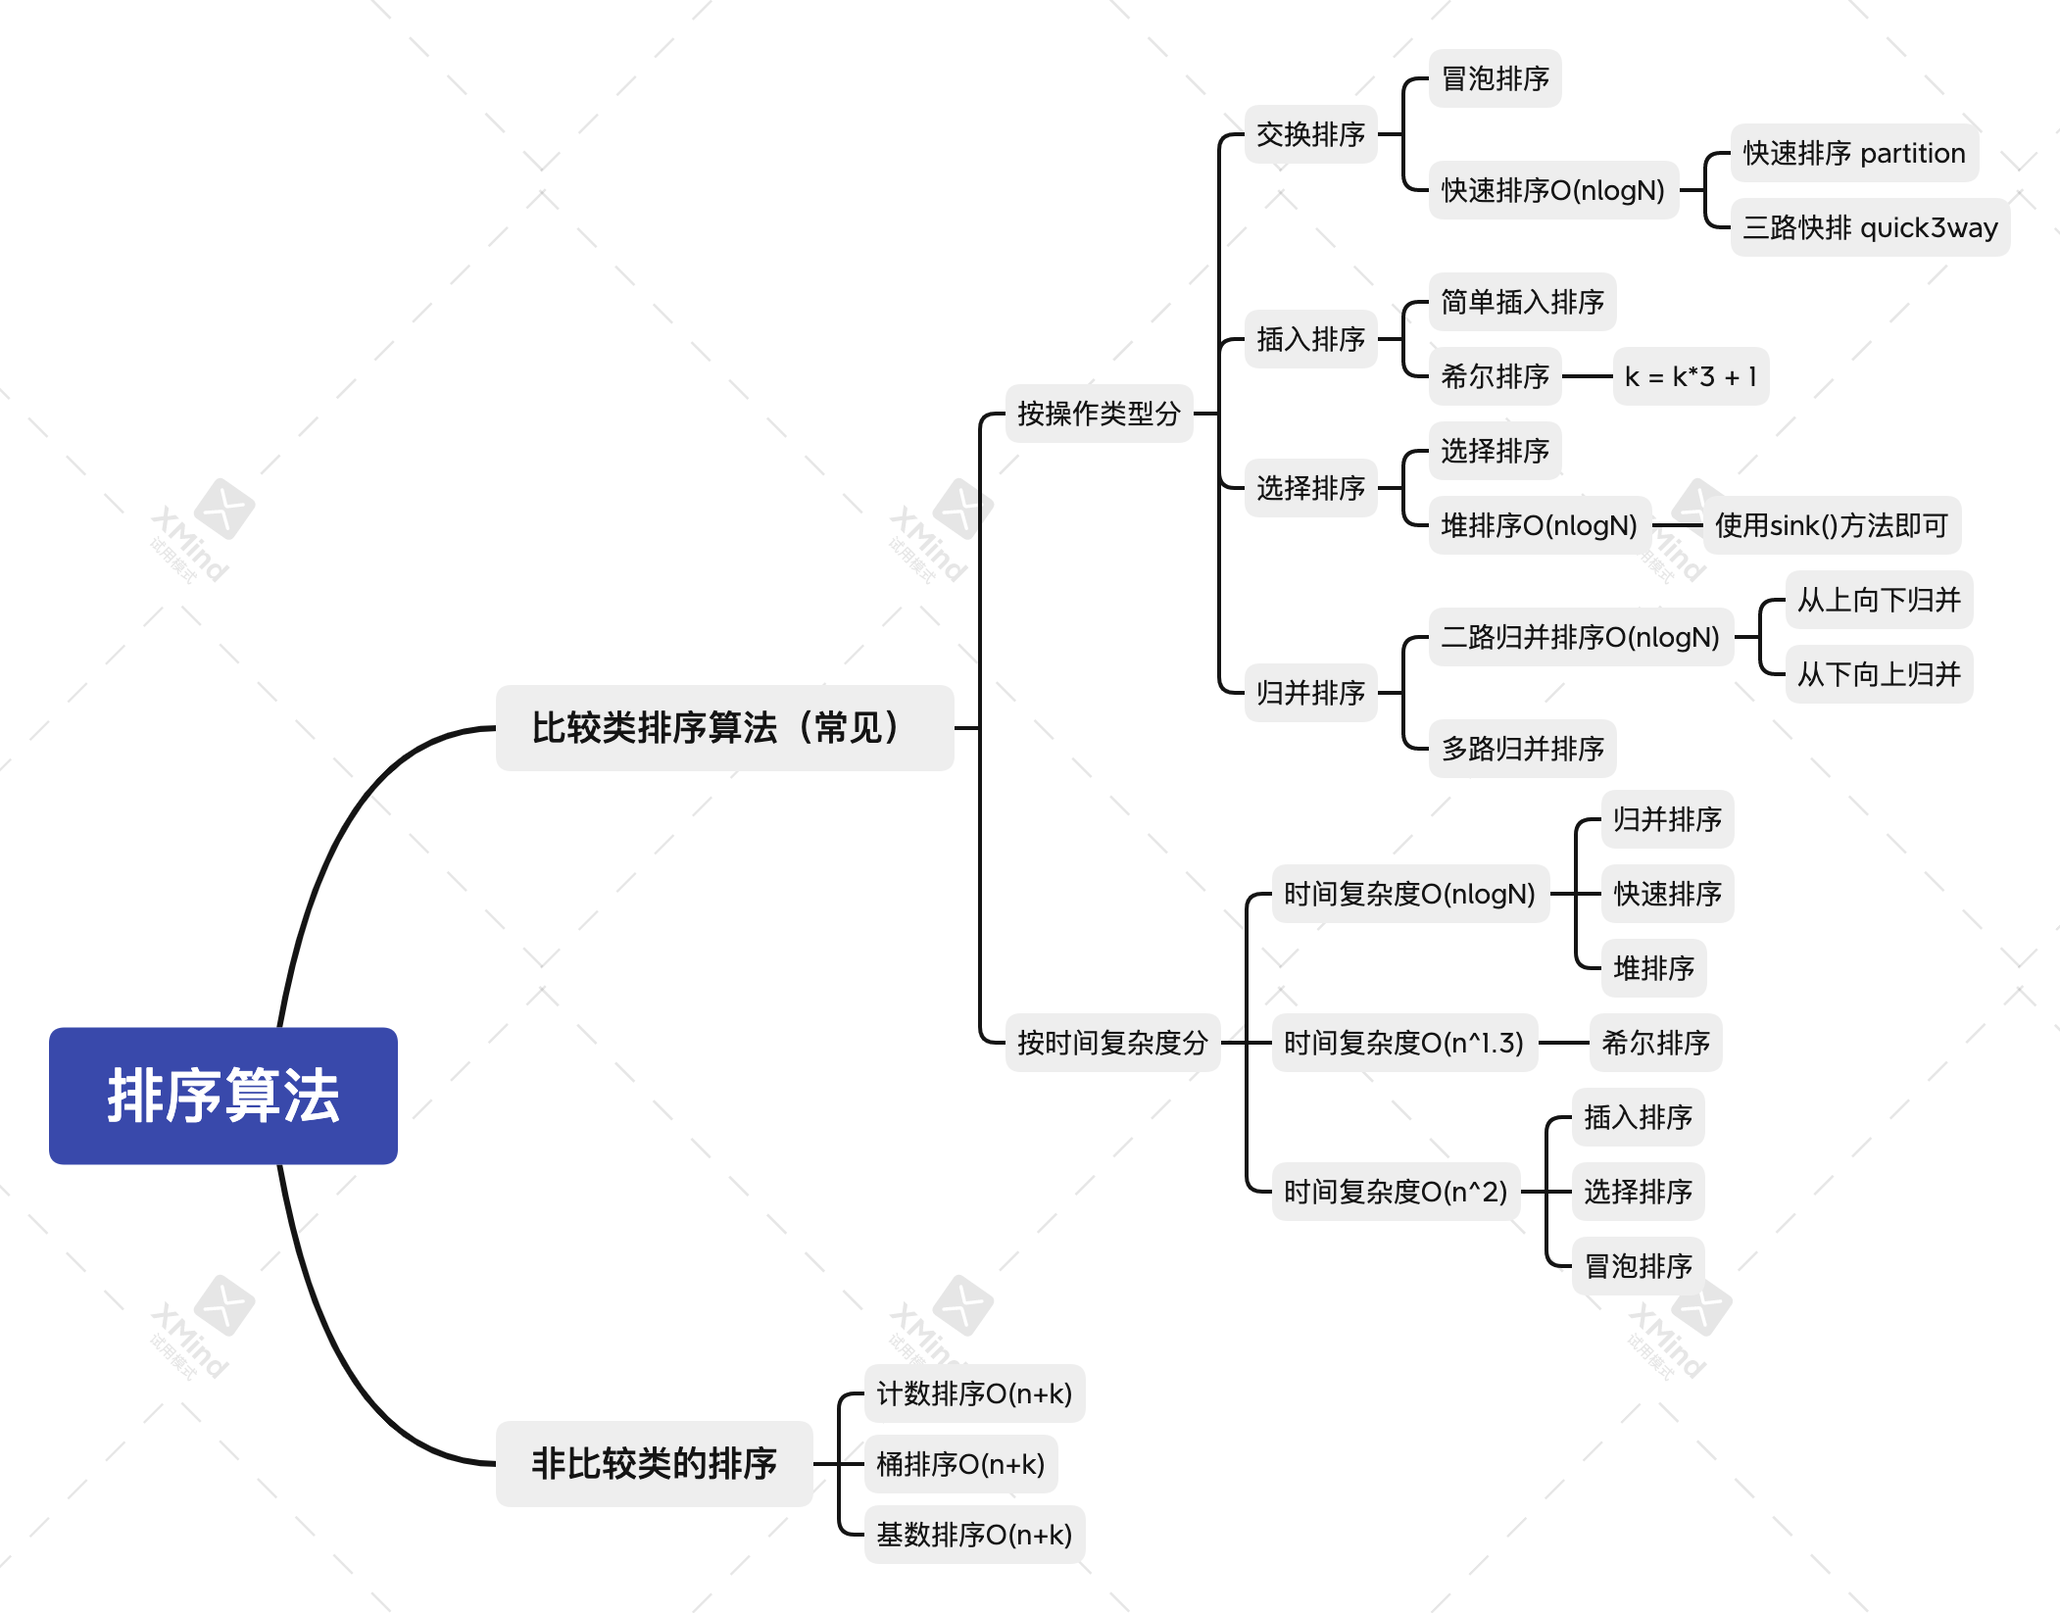
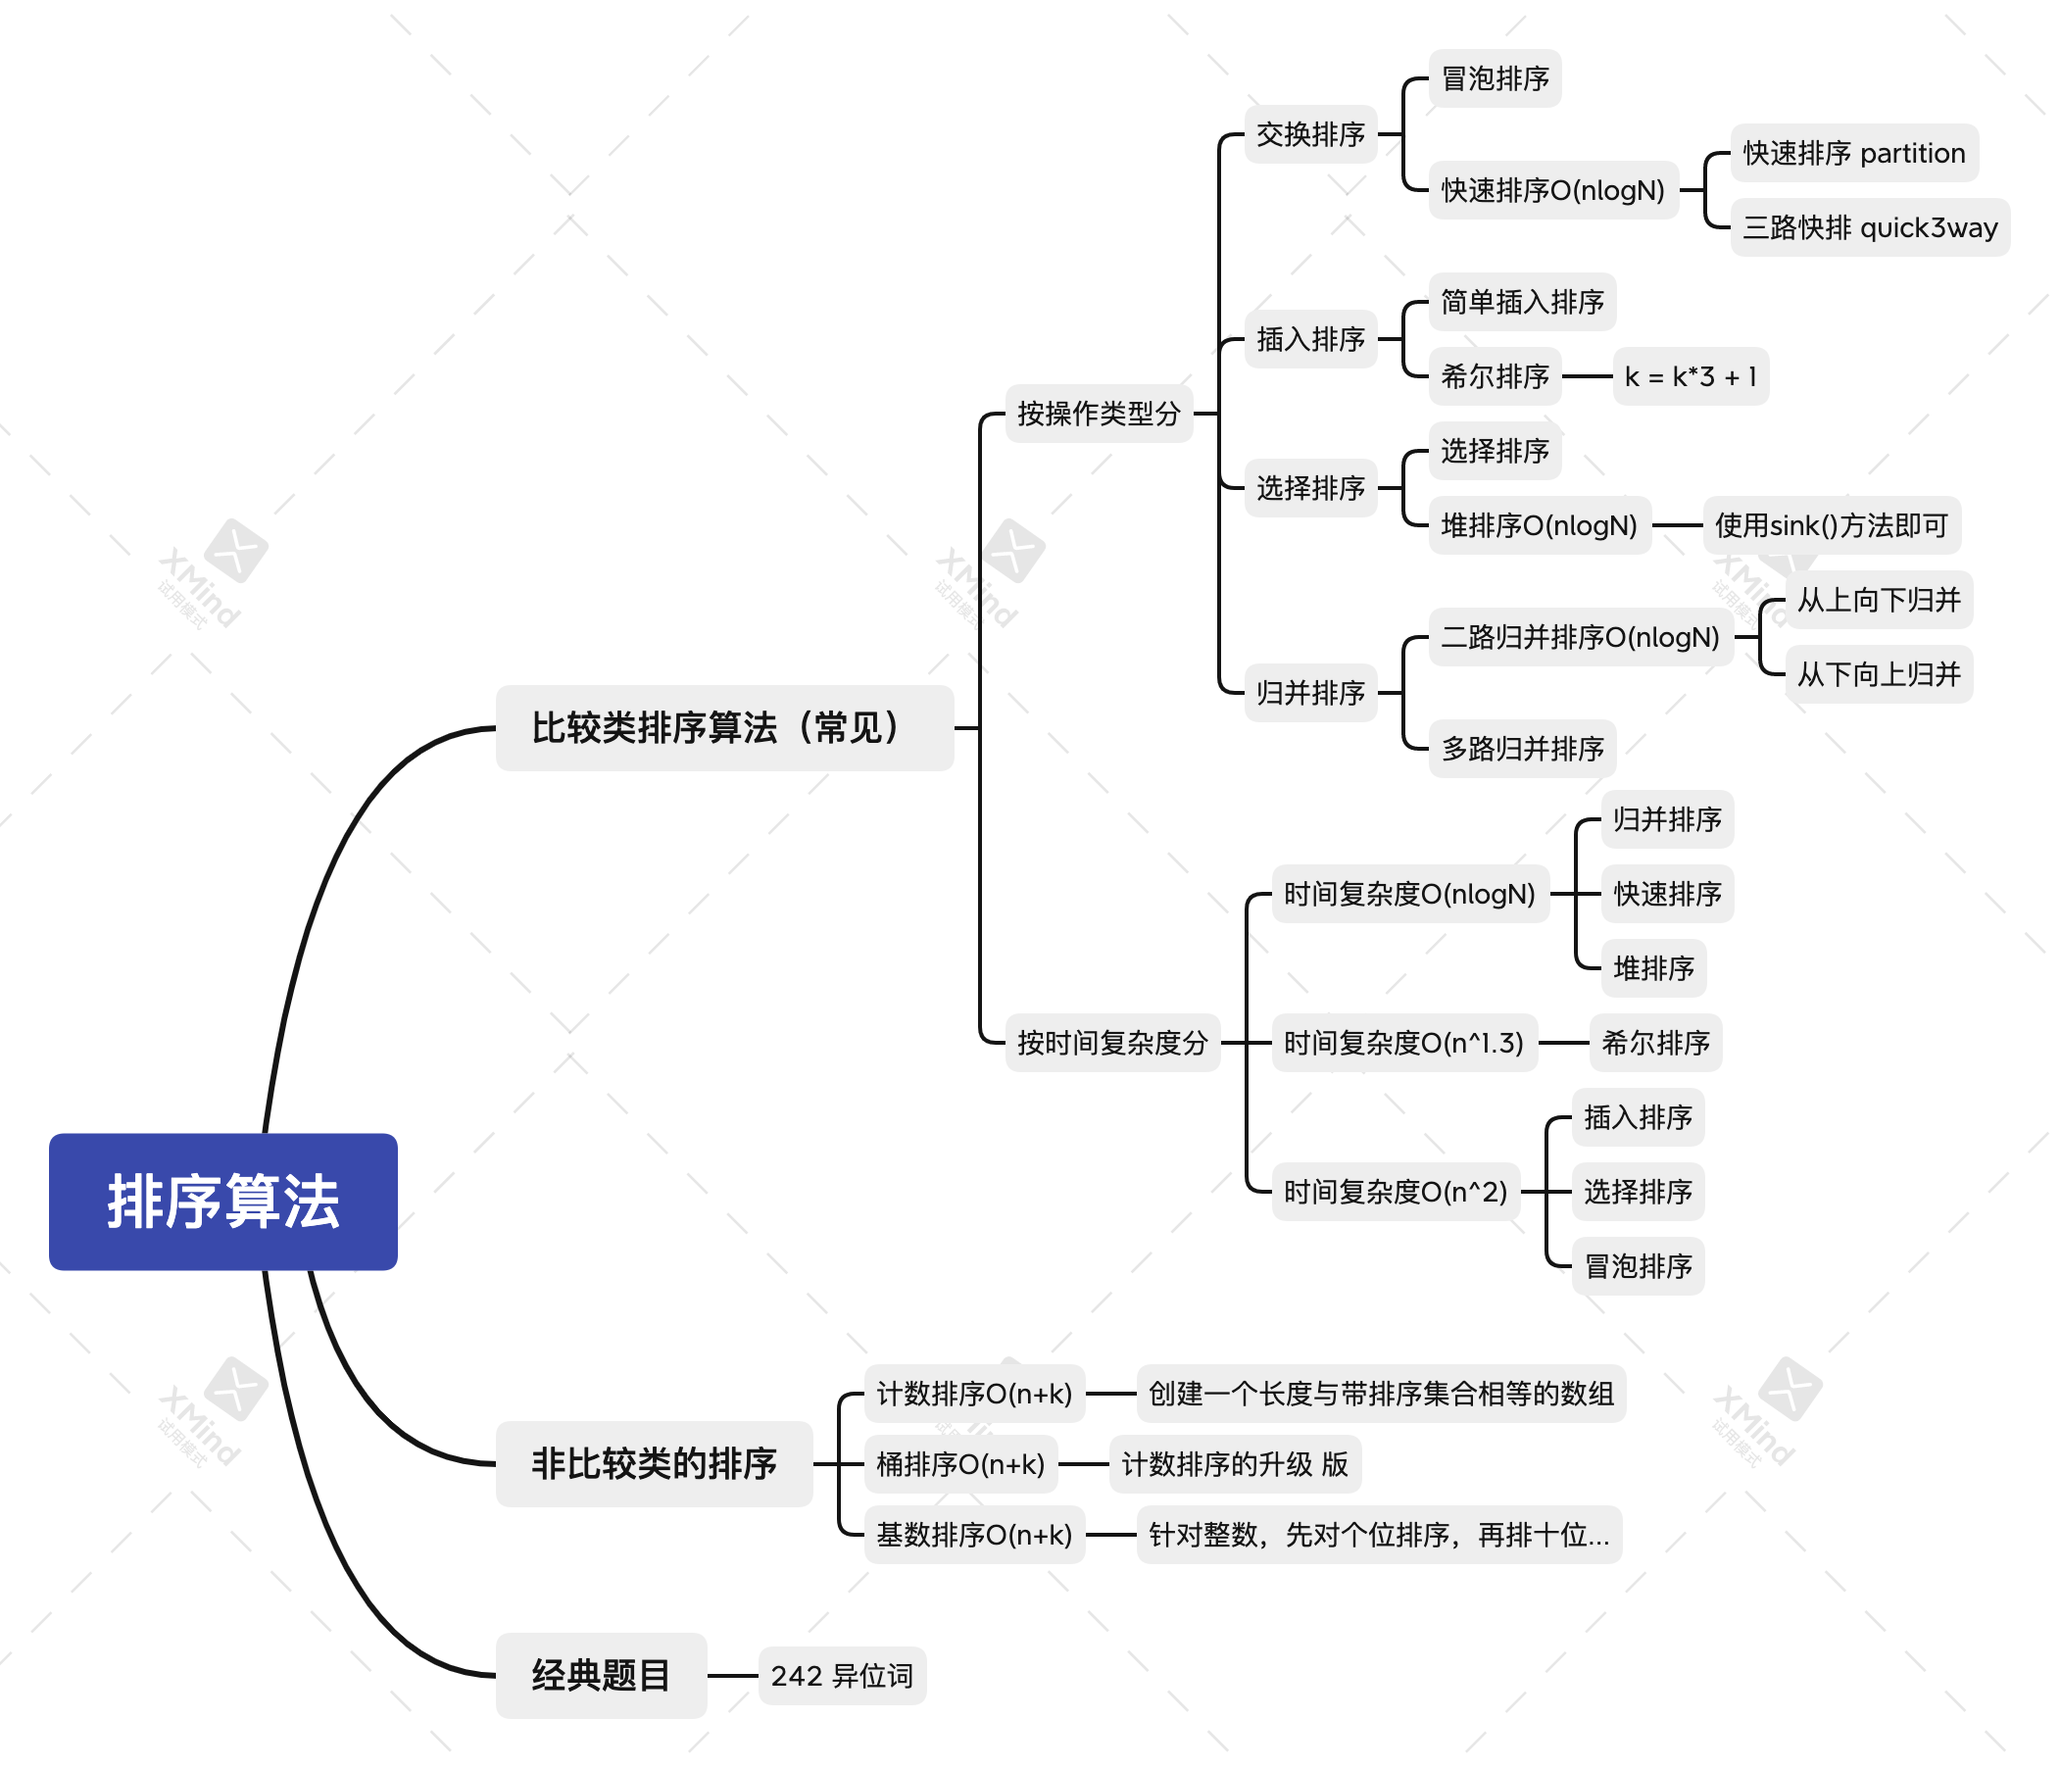
冒泡排序
回顾冒泡排序

diff --git a/LeetCodeWP/src/main/java/com/hef/review/review01sort/MaoPaoSort.java b/LeetCodeWP/src/main/java/com/hef/review/review01sort/MaoPaoSort.java
@@ -1,0 +1,38 @@
+package com.hef.review.review01sort;
+
+import java.util.Arrays;
+
+/**
+ * 冒泡排序
+ * @Date 2021/7/2
+ * @Author lifei
+ */
+public class MaoPaoSort {
+
+    public static void main(String[] args) {
+        Integer[] a = {9, 8, 5, 4, 3, 2, 0, 1, 0, 8, 5, 2};
+        System.out.println(Arrays.toString(a));
+        MaoPaoSort.sort(a);
+        System.out.println(Arrays.toString(a));
+    }
+
+    public static void sort(Comparable[] a) {
+        for (int i=0; i<a.length-1; i++) {
+            for (int j=0; j<a.length-i-1; j++) {
+                if (less(a, j+1, j)) {
+                    exch(a, j+1, j);
+                }
+            }
+        }
+    }
+
+    private static boolean less(Comparable[] a, int i, int j) {
+        return a[i].compareTo(a[j]) <0;
+    }
+
+    private static void exch(Comparable[] a, int i, int j) {
+        Comparable t = a[i];
+        a[i] = a[j];
+        a[j] = t;
+    }
+}

diff --git a/document/2021-07-02-排序.md b/document/2021-07-02-排序.md
@@ -1,0 +1,18 @@
+# 各种排序算法
+
+[toc]
+
+##  一、概览
+
+![排序算法](./photos/排序算法.png)
+
+## 二、常见的排序算法
+
+常见的排序算法有：交换排序（冒泡排序、快速排序）、插入排序（普通插入排序、希尔排序）、选择（选择排序、堆排序）、归并排序（从上到下归并、从下到上的归并）。
+
+时间复杂度为O(n^2)：冒泡、插入、选择
+
+时间复杂度为O(n^1.3)：希尔排序
+
+时间复杂度为O(nlogn)：归并排序、快速排序、堆排序
+
